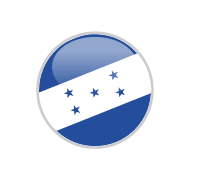
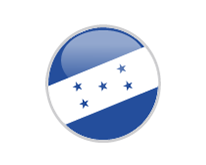
Problema de las banderas resuelto ademas de la proporcion de las flechas y el margen de mision y vision y quienes somos

diff --git a/WebDisatel.html b/WebDisatel.html
@@ -112,8 +112,8 @@
       <!-- Mision y Vision -->
       <a name="MV"></a>
       <div class="row misionVision">
-         <div class="col-lg-3 col-xs-1 col-sm-3 col-md-3"></div>
-         <div class="col-lg-6 col-xs-10 col-sm-6 col-md-6">
+         <div class="col-lg-3 col-sm-3 col-md-3"></div>
+         <div class="col-lg-6 col-xs-12 col-sm-6 col-md-6">
              <strong><h1 class="titulo">MISIÓN <span>Y</span> VISIÓN</h1></strong><hr class="division"><br><br>
 
              <!-- Misión -->
@@ -127,15 +127,14 @@
              <!-- Circulos Rojos -->
              <img class="imgCirlulos img-responsive" src="img/assets/circles.png" alt="Puntos Rojos"/>
          </div>
-         <div class="col-lg-3 col-xs-1 col-sm-3 col-md-3"></div>
+         <div class="col-lg-3 col-sm-3 col-md-3"></div>
        </div>
 
        <!-- Quienes Somos -->
        <a name="QS"></a>
        <div class="row quienesSomos">
          <!-- 2. Corner Gris 1 -->
-         <svg version="1.1" id="Layer_2" xmlns="http://www.w3.org/2000/svg" xmlns:xlink="http://www.w3.org/1999/xlink" x="0px" y="0px"
-            viewBox="0 0 1259.4 134.9" style="enable-background:new 0 0 1259.4 134.9;" xml:space="preserve">
+         <svg version="1.1" id="Layer_2" xmlns="http://www.w3.org/2000/svg" xmlns:xlink="http://www.w3.org/1999/xlink" x="0px" y="0px" viewBox="0 0 1259.4 134.9" style="enable-background:new 0 0 1259.4 134.9;" xml:space="preserve">
          <style type="text/css">
            .st0{fill:#FFFFFF;}
            .st1{fill:#CCCCCE;}
@@ -144,8 +143,8 @@
          <title>corners-2</title>
          <polygon class="st1" points="1259.4,0 640.2,122.9 0,0 0,134.9 1259.4,134.9 "/>
          </svg>
-         <div class="col-lg-3 col-xs-1 col-sm-3 col-md-3"></div>
-         <div class="col-lg-6 col-xs-10 col-sm-6 col-md-6">
+         <div class="col-lg-3 col-sm-3 col-md-3"></div>
+         <div class="col-lg-6 col-xs-12 col-sm-6 col-md-6">
              <strong><h1 class="titulo">QUÉNES <span>SOMOS</span></h1></strong><hr class="division"><br><br>
 
              <p class="texto">Somos una corporación multinacional constituida en el año 2002 con 14 años de experiencia en el mercado mexicano y centroamericano.</p><br>
@@ -159,7 +158,7 @@
 
              <strong><h1 class="titulo">NUESTRA <span>PRESENCIA</span></h1></strong><hr class="division2"><br><br>
          </div>
-         <div class="col-lg-3 col-xs-1 col-sm-3 col-md-3"></div>
+         <div class="col-lg-3  col-sm-3 col-md-3"></div>
        </div>
 
 
@@ -173,43 +172,43 @@
        <!-- Nuestra Presencia - Mapa -->
        <div class="row nuestraPresenciaMapa" style="background-image:url(img/caratula/b1.jpg);">
          <div class="col-lg-1 col-sm-1 col-md-1"></div>
-         <div class="col-lg-4 col-xs-6 col-sm-4 col-md-4">
+         <div class="col-lg-4 col-xs-12 col-sm-4 col-md-4">
            <!-- Mexico -->
            <div class="paises mexico">
              <img class="bandera img-responsive" src="img/assets/mexico.png" alt="Bandera México"/><p class="pais">México</p>
            </div>
 
            <!-- Guatemala -->
-           <div class="paises">
+           <div class="paises guatemala">
              <img class="bandera img-responsive" src="img/assets/guatemala.png" alt="Bandera Guatemala"/><p class="pais">Guatemala</p>
            </div>
 
            <!-- El Salvador -->
-           <div class="paises">
+           <div class="paises elSalvador">
              <img class="bandera img-responsive" src="img/assets/el-salvador.png" alt="Bandera El Salvador"/><p class="pais">El Salvador</p>
            </div>
 
            <!-- Honduras -->
-           <div class="paises">
-             <img class="bandera img-responsive" src="img/assets/el-salvador.png" alt="Bandera Honduras"/><p class="pais">Honduras</p>
+           <div class="paises honduras">
+             <img class="bandera img-responsive" src="img/assets/honduras.png" alt="Bandera Honduras"/><p class="pais">Honduras</p>
            </div>
 
            <!-- Nicaragua -->
-           <div class="paises">
+           <div class="paises nicaragua">
              <img class="bandera img-responsive" src="img/assets/nicaragua.png" alt="Bandera Nicaragua"/><p class="pais">Nicaragua</p>
            </div>
 
            <!-- Costa Rica -->
-           <div class="paises">
+           <div class="paises costaRica">
              <img class="bandera img-responsive" src="img/assets/costa-rica.png" alt="Bandera Costa Rica"/><p class="pais">Costa Rica</p>
            </div>
 
            <!-- Panamá -->
-           <div class="paises">
+           <div class="paises panama">
              <img class="bandera img-responsive" src="img/assets/panama.png" alt="Bandera Panamá"/><p class="pais">Panamá</p>
            </div>
          </div>
-         <div class="col-lg-4 col-xs-6 col-sm-4 col-md-4">
+         <div class="col-lg-4 col-sm-4 col-md-4">
            <img class="mapa img-responsive" src="img/assets/mapa-completo@2x.png" alt="Mapa Completo"/>
          </div>
          <div class="col-lg-2 col-sm-2 col-md-2"></div>

diff --git a/css/style.css b/css/style.css
@@ -183,6 +183,7 @@ footer {
 
 .quienesSomos{
   background-color: #CCCCCE;
+  margin-top: 1%;
 }
 
 /* Video Disatel */
@@ -198,8 +199,8 @@ footer {
 
 /* Bandera */
 .bandera{
-  width: 15%;
-  height:50%;
+  max-width: 100px;
+  max-height: 100px;
   display: inline-block;
 }
 
@@ -217,7 +218,7 @@ footer {
 }
 
 .mexico{
-  margin-top: 40% !important;
+  margin-top: 25% !important;
 }
 
 /************** Parte 7 - Nuestras Solcuiones - Botones ***************/
@@ -298,7 +299,7 @@ footer {
 
 /* Flechas */
 .flechas{
-  width: 50%;
+  width: 38%;
   float: right;
   padding-bottom: 2%;
 }
@@ -339,6 +340,11 @@ margin-top: -1%;
 
 @media (max-width: 768px){
 
+  /* Carrusel */
+  .carousel{
+    height: 500px !important;
+  }
+
   /* Navbar - Logo Disatel*/
   .logo{
     width: 75px;
@@ -365,7 +371,7 @@ margin-top: -1%;
 
   /* Nuestra Presencia - Mapa */
   .mapa{
-    margin-top: 20%;
+    margin-top: 25% !important;
     height: 475px;
   }
 
@@ -437,9 +443,17 @@ margin-top: -1%;
     margin-bottom: 5% !important;
   }
 
+  /* Nuestra Presencia */
+  .nuestraPresenciaMapa{
+    padding-bottom: 6%;
+  }
+
   .mapa{
-    margin-top: 20%;
-    height: 475px;
+    display: none;
+  }
+
+  .mexico{
+    margin-top: 5% !important;
   }
 
 }
